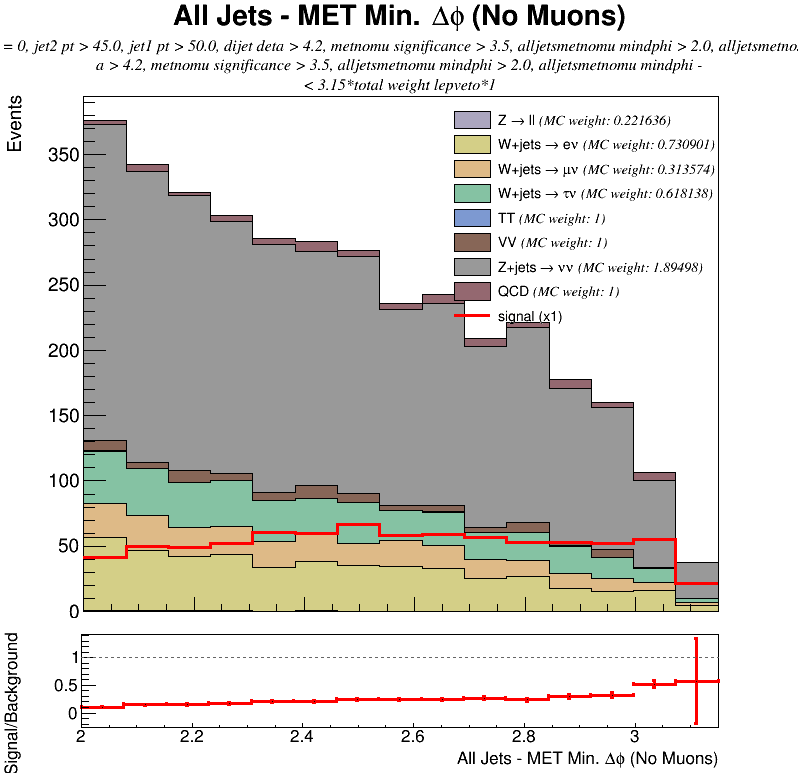
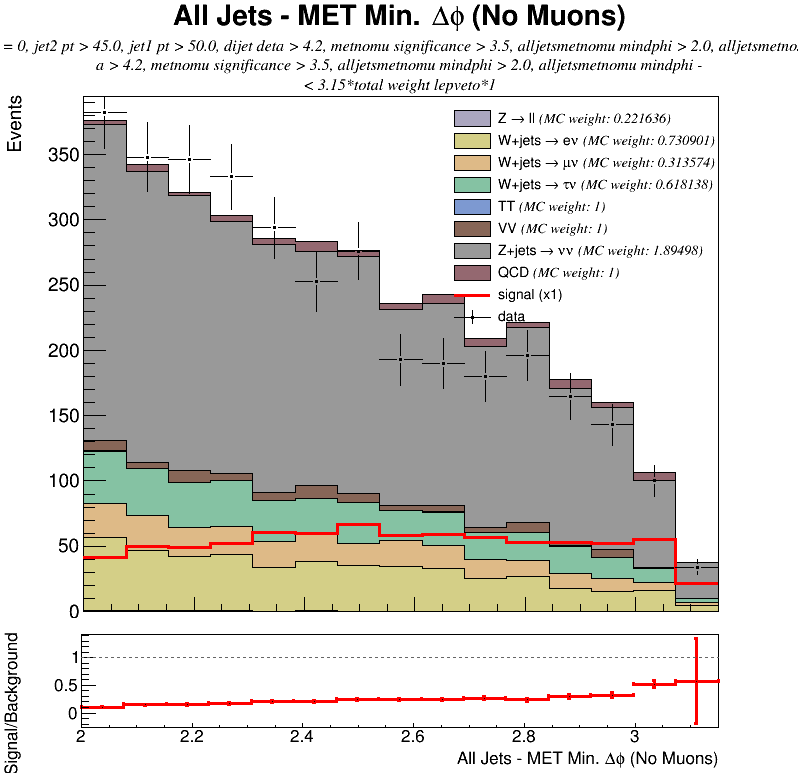
added parked data plot

Changed region(s): [[0.5714, 0.124, 0.9023, 0.4341]]

diff --git a/src/super_vars.cpp b/src/super_vars.cpp
@@ -9,7 +9,7 @@ SuperVars::SuperVars()
                                         "3.0","","3.5","","50","10", "");
   sqrt_ht                = new Variable("sqrt_ht","Square Root HCAL Scalar Sum of Energy","0.0","35.0","9.0",
                                         "18.0","75","10", "GeV^{0.5}");
-  alljetsmetnomu_mindphi = new Variable("alljetsmetnomu_mindphi","All Jets - MET Min. #Delta#phi (No Muons)","0","3.15","2.0","","40","1", "");
+  alljetsmetnomu_mindphi = new Variable("alljetsmetnomu_mindphi","All Jets - MET Min. #Delta#phi (No Muons)","0","3.15","2.0","","50","1", "");
   dijet_M                = new Variable("dijet_M","Dijet Mass","0.0","","800.0","","50","10", "GeV");// whyis there upper limit
   metnomuons             = new Variable("metnomuons","MET (No Muons)","0.0","","120.0","",//why the upper limit?
                                         "50","5", "GeV");
@@ -39,17 +39,17 @@ SuperVars::SuperVars()
   parked_jet1_eta = new Variable("jet1_eta","jet1_eta", "-20", "5", "-10.0", "4.7","50","1","");
   parked_jet2_eta = new Variable("jet2_eta","jet2_eta", "-20", "5", "-10.0", "4.7","50","1","");
 
-  parked_jet1_pt                 = new Variable("jet1_pt","Jet1pt","0.0","","50.0","","30","", "GeV");
-  parked_jet2_pt                 = new Variable("jet2_pt","Jet2pt","0.0","","45.0","","30","", "GeV");
-  parked_dijet_M                = new Variable("dijet_M","Dijet Mass","0.0","","1200.0","","50","10", "GeV");
+  parked_jet1_pt                 = new Variable("jet1_pt","Jet1pt","0.0","","50.0","","50","", "GeV");
+  parked_jet2_pt                 = new Variable("jet2_pt","Jet2pt","0.0","","45.0","","50","", "GeV");
+  parked_dijet_M                = new Variable("dijet_M","Dijet Mass","0.0","","1200.0","","50","1", "GeV");
 
-  parked_dijet_deta             = new Variable("dijet_deta","Dijet #Delta#eta","3.6","","3.6","","25","10", "");
-  parked_metnomuons             = new Variable("metnomuons","MET (No Muons)","0.0","","90","","50","5", "GeV");
+  parked_dijet_deta             = new Variable("dijet_deta","Dijet #Delta#eta","3.6","","3.6","","50","1", "");
+  parked_metnomuons             = new Variable("metnomuons","MET (No Muons)","0.0","","90","","50","1", "GeV");
 
 
   parked_alljetsmetnomu_mindphi = new Variable("alljetsmetnomu_mindphi","All Jets - MET Min. #Delta#phi (No Muons)",
-                                        "0.0","","2.3","","50","5", "");
-  parked_metnomu_significance   = new Variable("metnomu_significance","MET Significance (No Muons)","3.0","","4.0","","50","10", "");
+                                        "0.0","3.15","2.3","","50","1", "");
+  parked_metnomu_significance   = new Variable("metnomu_significance","MET Significance (No Muons)","3.0","","4.0","","50","1", "");
 
 
 }

diff --git a/src/histo_plot.cpp b/src/histo_plot.cpp
@@ -567,7 +567,7 @@ std::string HistoPlot::style_selection(std::string selection)
 
 void HistoPlot::draw_subtitle(Variable* variable, std::vector<Variable*>* variables,
                               bool with_cut, DataChain* data, std::string supervar_selection,
-																														std::string mva_cut)
+				std::string mva_cut)
 {
   std::string sel;
 	 if (variables == NULL)
@@ -581,7 +581,7 @@ void HistoPlot::draw_subtitle(Variable* variable, std::vector<Variable*>* variab
 	 }
   std::cout << sel << std::endl;
 	 std::string selection = "Selection: " + sel;
-  std::string l1        = "#font[12]{" + selection + "-}";
+  std::string l1        = "#font[12]{" + selection.substr(0, 90) + "-}";//selection.substr(0, 90)
   std::string l2        = "#font[12]{" + selection.substr(88, 90) + "-}";
   std::string l3        = "#font[12]{" + selection.substr(178, 88) + "}";
 
@@ -591,7 +591,7 @@ void HistoPlot::draw_subtitle(Variable* variable, std::vector<Variable*>* variab
   pts->SetFillColor(0);
   pts->AddText(l1.c_str());
   pts->AddText(l2.c_str());
- pts->AddText(l3.c_str());
+  pts->AddText(l3.c_str());
   pts->SetAllWith(l1.c_str(), "size", 0.03);
   pts->SetAllWith(l2.c_str(), "size", 0.03);
   pts->SetAllWith(l3.c_str(), "size", 0.03);
@@ -767,13 +767,14 @@ TH1F* HistoPlot::draw_data(DataChain* data_chain, Variable* variable, bool with_
   data_chain->chain->SetMarkerColor(1);
   data_chain->chain->SetLineColor(1);
   TH1F* data_histo = set_error_bars(
-//build_1d_histo(data_chain, variable, with_cut, false, "E1", variables, "", 1,mva_cut)
-build_parked_histo(data_chain, variable, variables, 1)
+  //build_1d_histo(data_chain, variable, with_cut, false, "E1", variables, "", 1,mva_cut)
+  build_parked_histo(data_chain, variable, variables, 1)
 );
   legend->AddEntry(data_histo, data_chain->legend, "lep");
 
   return data_histo;
 }
+//_______________________________________________________________________________________________________________________
 
 TH1F* HistoPlot::draw_signal(DataChain* data_chain, Variable* variable, bool with_cut, TLegend* legend,
                              std::vector<Variable*>* variables, std::string mva_cut)
@@ -787,6 +788,7 @@ TH1F* HistoPlot::draw_signal(DataChain* data_chain, Variable* variable, bool wit
 
   return signal_histo;
 }
+//_______________________________________________________________________________________________________________________
 
 TH1F* HistoPlot::draw_background(DataChain* data_chain, Variable* variable, int fill_colour, bool with_cut,
 																																	std::vector<Variable*>* variables, double mc_weight, std::string mva_cut)

diff --git a/src/main.cpp b/src/main.cpp
@@ -65,11 +65,12 @@ void produce_graphs(bool with_cut, const char* job_ptr) {
    std::vector<const char*> single_file_vector (train_file_arr,train_file_arr  + sizeof(train_file_arr)/sizeof(const char*));
    MVAAnalysis::get_estimators(single_file_vector);*/
 //}
-HistoPlot::draw_plot(cut_vars[0], bg_chains,signal_chain, data_chain, true, &cut_vars, true, "parked_for_slides.png");
+HistoPlot::draw_plot(parked_vars[7], bg_chains,signal_chain, data_chain, true, &parked_vars, true, "parked_for_slides.png");
 //cout<<"plotted graph\n";
 /*std::vector<double> mc_weights_vector = HistoPlot::mc_weights(data_chain, bg_chains, cut_vars[0], true, &cut_vars);
 cout<<"got regular mc weights\n";
-std::vector<double> parked_mc_weights_vector = HistoPlot::mc_weights(data_chain, bg_chains, cut_vars[0], true, &cut_vars,"",6,false,true);
+
+std::vector<double> parked_mc_weights_vector = HistoPlot::mc_weights(data_chain, bg_chains, parked_vars[0], true, &parked_vars,"",6,false,true);
 cout<<"got park mc weights\n";
 
 double integral;double total=0;
@@ -86,9 +87,9 @@ for(int i=0; i<8;i++){
  cout << "total signal = "<< HistoPlot::get_histo_integral(signal_histo, with_cut, vars[0]) << endl;// taking into account test/train data split
 
 cout<<"===================CMS parked preselection====================\n";
-total=0;
+double total,integral;
 for(int i=0; i<8;i++){
-    TH1F* parked_histo = HistoPlot::build_parked_histo(bg_chains[i], parked_vars[7],&parked_vars, mc_weights_vector[i]);
+    TH1F* parked_histo = HistoPlot::build_parked_histo(bg_chains[i], parked_vars[7],&parked_vars, parked_mc_weights_vector[i]);
     integral = HistoPlot::get_histo_integral(parked_histo, with_cut, parked_vars[7]);
     cout<<bg_chains[i]->label<<": "<<integral<<endl;
     total+=integral;
